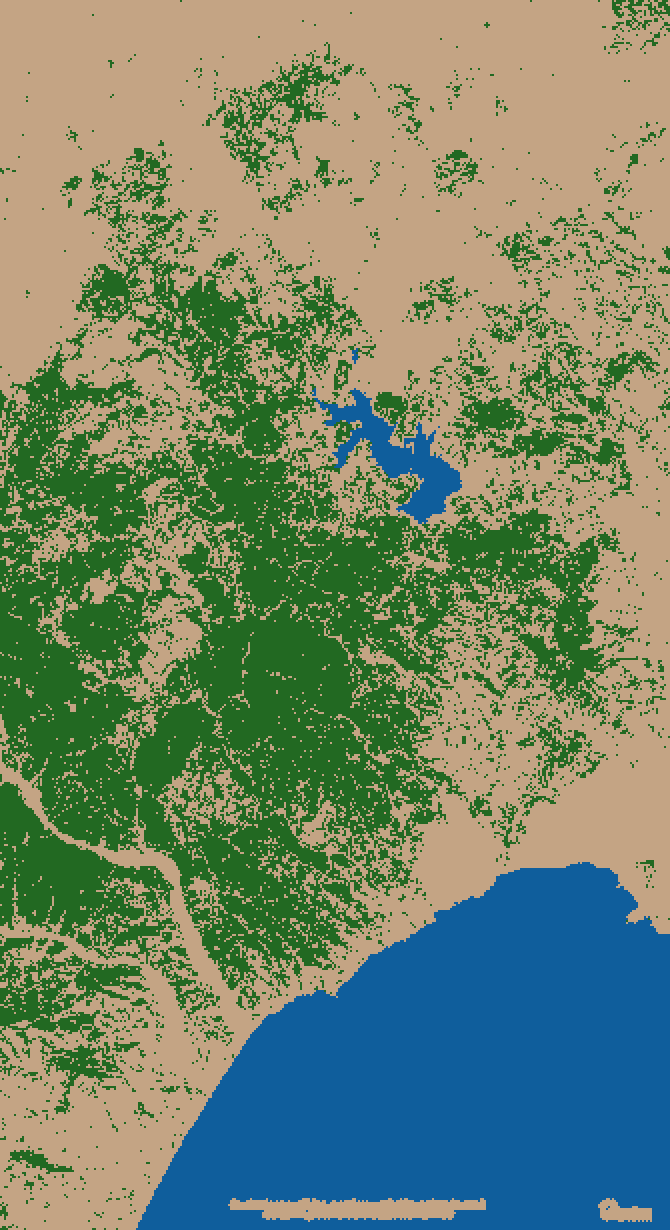
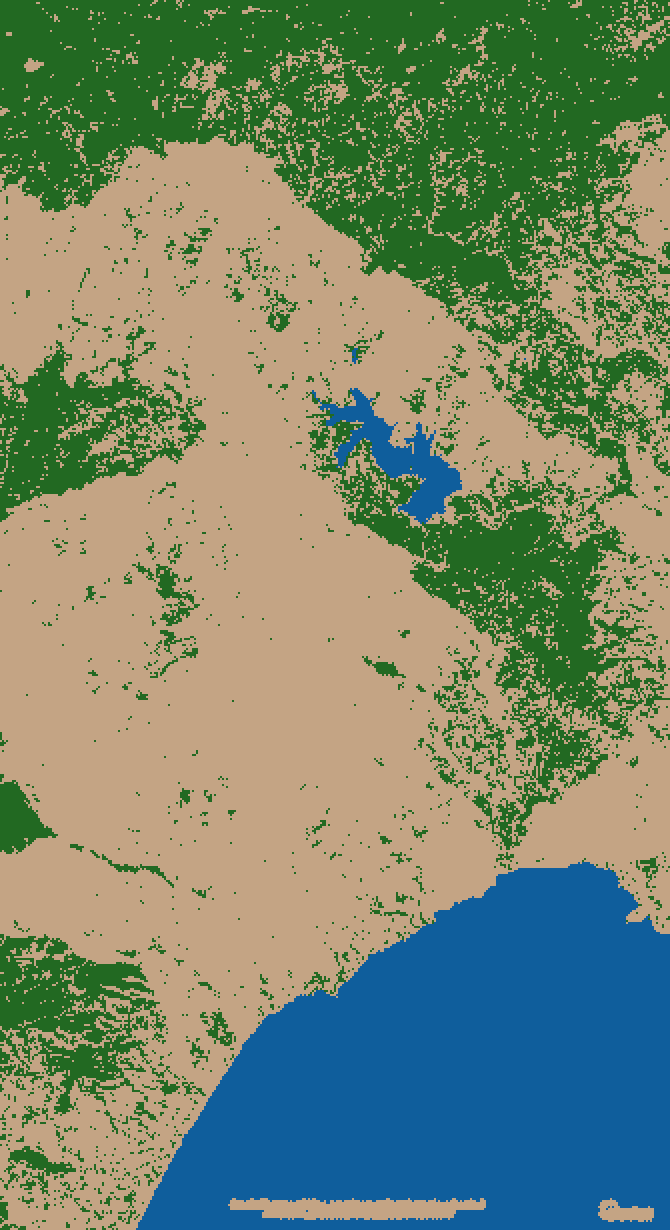
Rhodos wind simulation

diff --git a/src/simulation_basic.py b/src/simulation_basic.py
@@ -26,7 +26,20 @@ FIRE_START = load_fire_start(
     GRID_HEIGHT,
 )
 
-SPREAD_PROB = 1.0
+SPREAD_PROB = 0.15
+WIND_BONUS = 0.75
+WIND_DIRECTION = "S"
+
+WIND_FORWARD_NEIGHBORS = {
+    "N":  [(-1, -1), (-1, 0), (-1, 1)],
+    "NE": [(-1, 0), (-1, 1), (0, 1)],
+    "E":  [(-1, 1), (0, 1), (1, 1)],
+    "SE": [(0, 1), (1, 1), (1, 0)],
+    "S":  [(1, -1), (1, 0), (1, 1)],
+    "SW": [(0, -1), (1, -1), (1, 0)],
+    "W":  [(-1, -1), (0, -1), (1, -1)],
+    "NW": [(-1, 0), (-1, -1), (0, -1)],
+}
 
 # =========================
 # Cell states
@@ -52,30 +65,47 @@ class ForestFireModel:
         grid: np.ndarray,
         fire_start: np.ndarray,
         spread_prob: float = 1.0,
+        wind_direction: str | None = None,
+        wind_bonus: float = 0.0,
     ):
         self.width = width
         self.height = height
         self.base_grid = grid.copy()
         self.fire_start = fire_start
         self.spread_prob = spread_prob
+        self.wind_direction = wind_direction
+        self.wind_bonus = wind_bonus
 
         self.grid = self.base_grid.copy()
         self.reset()
 
     def reset(self):
         self.grid = self.base_grid.copy()
+        # self.fire_start = np.zeros((self.height, self.width), dtype=np.uint8)
         ignition_mask = (self.fire_start == 1) & (self.grid == TREE)
         self.grid[ignition_mask] = BURNING
 
     def neighbors(self, y: int, x: int):
-        if y > 0:
-            yield (y - 1, x)
-        if y < self.height - 1:
-            yield (y + 1, x)
-        if x > 0:
-            yield (y, x - 1)
-        if x < self.width - 1:
-            yield (y, x + 1)
+        for dy in (-1, 0, 1):
+            for dx in (-1, 0, 1):
+                if dy == 0 and dx == 0:
+                    continue
+
+                ny = y + dy
+                nx = x + dx
+
+                if 0 <= ny < self.height and 0 <= nx < self.width:
+                    yield ny, nx, dy, dx
+
+    def spread_probability_for_offset(self, dy: int, dx: int) -> float:
+        prob = self.spread_prob
+
+        if self.wind_direction is not None:
+            boosted = WIND_FORWARD_NEIGHBORS.get(self.wind_direction, [])
+            if (dy, dx) in boosted:
+                prob = min(1.0, prob + self.wind_bonus)
+
+        return prob
 
     def step(self) -> bool:
         if not np.any(self.grid == BURNING):
@@ -84,14 +114,16 @@ class ForestFireModel:
         new_grid = self.grid.copy()
 
         for y, x in np.argwhere(self.grid == BURNING):
-            for ny, nx in self.neighbors(y, x):
-                if self.grid[ny, nx] == TREE and random.random() < self.spread_prob:
-                    new_grid[ny, nx] = BURNING
+            for ny, nx, dy, dx in self.neighbors(y, x):
+                if self.grid[ny, nx] == TREE:
+                    spread_prob = self.spread_probability_for_offset(dy, dx)
+                    if random.random() < spread_prob:
+                        new_grid[ny, nx] = BURNING
 
             new_grid[y, x] = EMPTY
 
         self.grid = new_grid
-        return True
+        return np.any(self.grid == BURNING)
 
 
 class SimulationApp:
@@ -112,6 +144,8 @@ class SimulationApp:
             grid=GRID,
             fire_start=FIRE_START,
             spread_prob=SPREAD_PROB,
+            wind_direction=WIND_DIRECTION,
+            wind_bonus=WIND_BONUS,
         )
 
         self.running = True

diff --git a/src/convert_to_grid.py b/src/convert_to_grid.py
@@ -27,9 +27,9 @@ def downsample_grid_by_2(grid: np.ndarray) -> np.ndarray:
             block = grid[2*y:2*y+2, 2*x:2*x+2].flatten()
 
             # Priorytet: jeśli gdziekolwiek jest TREE, wynik = TREE
-            # if np.any(block == TREE):
-            #     downsampled[y, x] = TREE
-            #     continue
+            if np.any(block == TREE):
+                downsampled[y, x] = TREE
+                continue
 
             values, counts = np.unique(block, return_counts=True)
             max_count = counts.max()

diff --git a/src/simulation.py b/src/simulation.py
@@ -26,7 +26,7 @@ print(f"Grid shape: {GRID_WIDTH, GRID_HEIGHT}")
 TREE_DENSITY = 0.4
 GROWTH_PROB = 0.0   # probability that empty/burned cell becomes a tree
 LIGHTNING_PROB = 0.0   # probability of ignition attempt in a step
-SPREAD_PROB = 1.0      # probability fire spreads to a neighboring tree
+SPREAD_PROB = 0.5      # probability fire spreads to a neighboring tree
 
 # =========================
 # Cell states